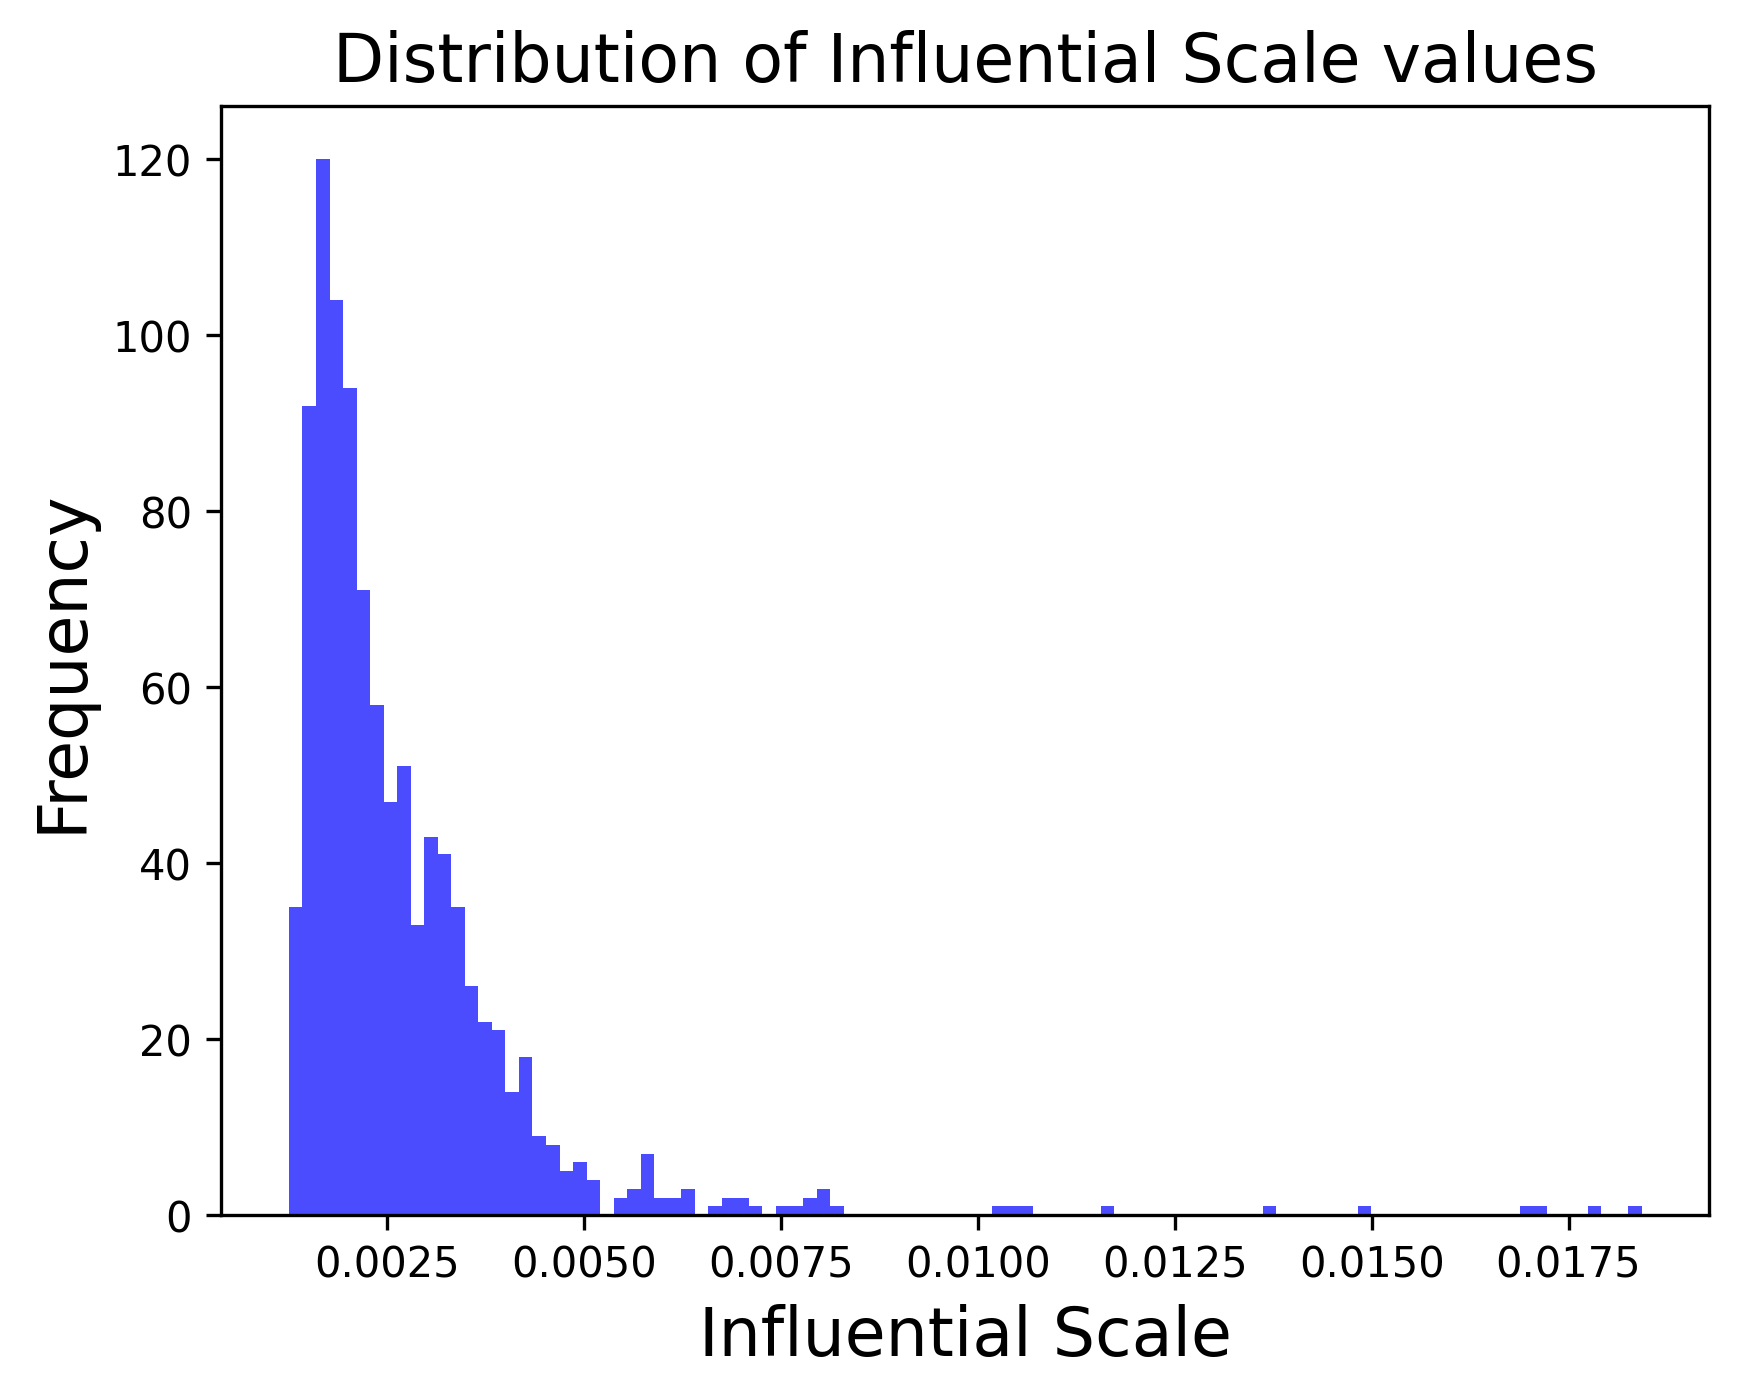
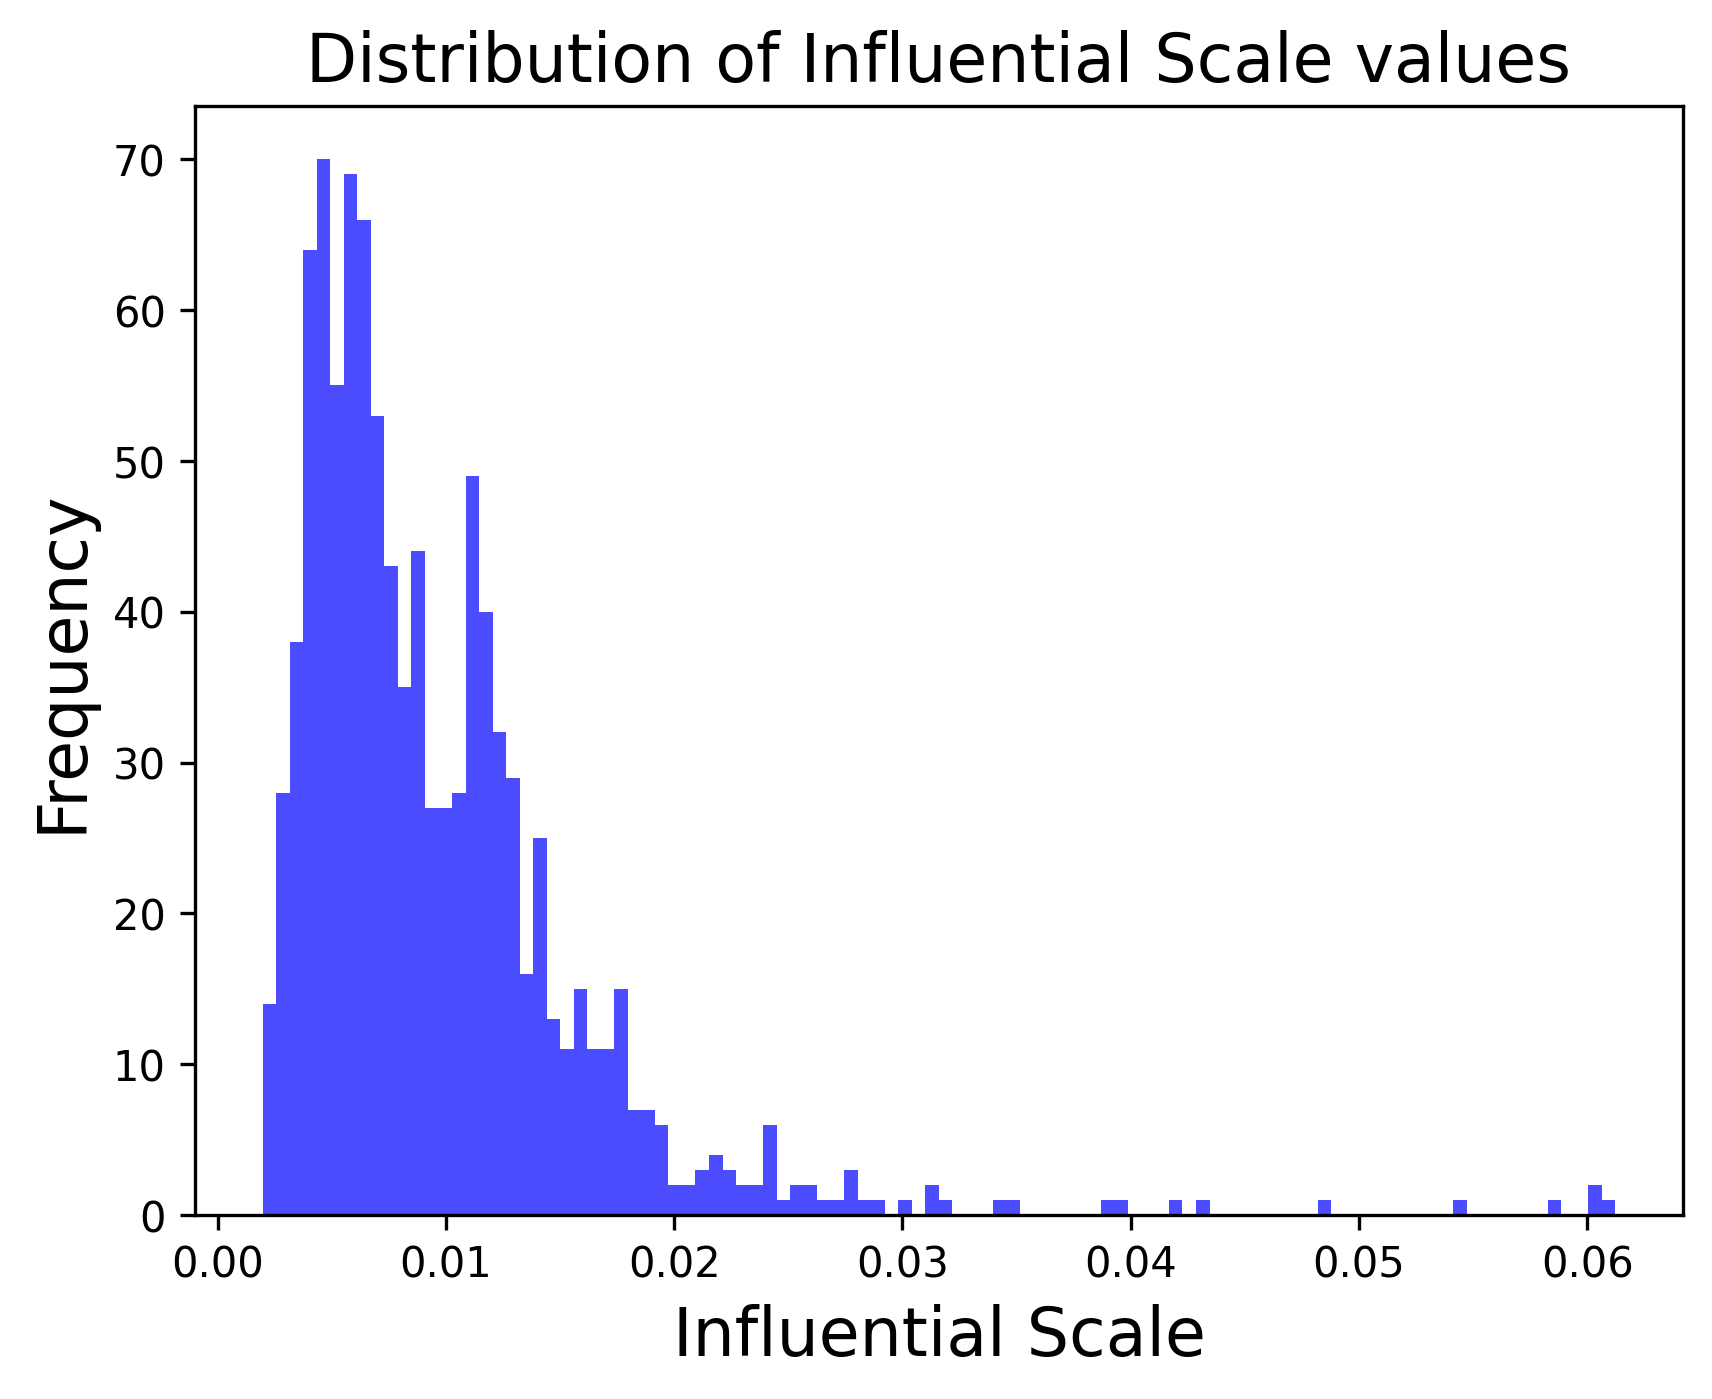
new run of the training model with L=20 and b=4 and ep=200 added

diff --git a/testing_cnn/models/test.py b/testing_cnn/models/test.py
@@ -59,7 +59,7 @@ def get_graph_path(graph_list, graph_name):
             return graph[0]
     return None
 
-def get_sir_paths(net_name, num_b=3,  result_path = './datasets/SIR_Results/'):
+def get_sir_paths(net_name, sir_alpha=0,  num_b=3,  result_path = './datasets/SIR_Results/'):
     paths= []
     for i in range(num_b):
         sir_dir =os.path.join(result_path, net_name)
@@ -67,6 +67,9 @@ def get_sir_paths(net_name, num_b=3,  result_path = './datasets/SIR_Results/'):
         if file_exists(sir_dir):
             paths.append(sir_dir)
     #todo
+    if sir_alpha<3 and sir_alpha>=0:
+        return paths[sir_alpha]
+    
     return paths[0]
 
 def get_feature_path(net_name,  result_path = './datasets/Features/'):
@@ -259,6 +262,11 @@ except FileNotFoundError:
 except json.JSONDecodeError as e:
     print(f"Error decoding JSON file {'./testing_cnn/data/validation_results.json'}: {e}. Starting fresh.")
 
+# parameters
+sir_alpha = 1
+_model_L = 20
+num_epochs=200
+
 
 
 # Extract the list of "graph_name" values
@@ -278,8 +286,8 @@ input()
 
 
 # Define the model
-model = InfluenceCNN(input_size=9)  # Adjust input_size according to your data
-model.load_state_dict(torch.load('./testing_cnn/data/EP200_TRAINED_ba_1000_4_cnn_model.pth'))
+model = InfluenceCNN(input_size=_model_L)  # Adjust input_size according to your data
+model.load_state_dict(torch.load(f'./testing_cnn/data/EP{num_epochs}_TRAINED_ba_1000_4_cnn_model_sir{sir_alpha}_raw_L{_model_L}.pth'))
 model.eval()
 
 device = torch.device("cuda" if torch.cuda.is_available() else "cpu")
@@ -320,7 +328,7 @@ for g in test_graph_list:
 
     start_time = time.time()
     # Create Dataset and DataLoader
-    test_dataset = NodeDataset(G_test, test_nodes, graph_feature_path, test_labels, L=9)
+    test_dataset = NodeDataset(G_test, test_nodes, graph_feature_path, test_labels, L=_model_L)
     test_loader = DataLoader(test_dataset, batch_size=4, shuffle=False)
 
     # print(test_nodes[1],test_labels[1])   #just checking that its correctly split and gives the correct node

diff --git a/testing_cnn/models/train.py b/testing_cnn/models/train.py
@@ -254,7 +254,11 @@ graph_list = [item for item in graph_list if item[1] not in skip_graphs]
 
 start_time = time.time()
 
+# parameters
 sir_alpha = 1
+_model_L = 20
+num_epochs=200
+
 
 graph_name ='ba_edgelist_1000_4'
 print(f"{graph_name}")
@@ -294,14 +298,14 @@ train_labels = labels_df['SIR'].values
 print(train_nodes[1],train_labels[1])   #just checking that its correctly split and gives the correct node
 
 # Create Dataset and DataLoader for Training
-train_dataset = NodeDataset(G, train_nodes, graph_feature_path, train_labels, L=9)
+train_dataset = NodeDataset(G, train_nodes, graph_feature_path, train_labels, L=_model_L)
 train_loader = DataLoader(train_dataset, batch_size=4, shuffle=True)
 
 # Define the Model, Loss Function, and Optimizer:
 
 
 # Define the model
-model = InfluenceCNN(input_size=9)  # Adjust input_size according to your data
+model = InfluenceCNN(input_size=_model_L)  # Adjust input_size according to your data
 # Apply weight initialization
 model.apply(initialize_weights)
 model.to(torch.device('cuda' if torch.cuda.is_available() else 'cpu'))
@@ -315,7 +319,6 @@ optimizer = optim.Adam(model.parameters(), lr=learning_rate)
 
 device = torch.device("cuda" if torch.cuda.is_available() else "cpu")
 model.to(device)
-num_epochs=200
 
 # Lists to store metrics
 train_losses = []
@@ -360,4 +363,4 @@ duration = end_time - start_time  # Duration in seconds
 print(f"Graph: {graph_name} time: {duration}")
 
 #  Save the Model (optional):
-torch.save(model.state_dict(), f'EP200_TRAINED_ba_1000_4_cnn_model_sir{sir_alpha}_raw.pth')
+torch.save(model.state_dict(), f'EP{num_epochs}_TRAINED_ba_1000_4_cnn_model_sir{sir_alpha}_raw_L{_model_L}.pth')
